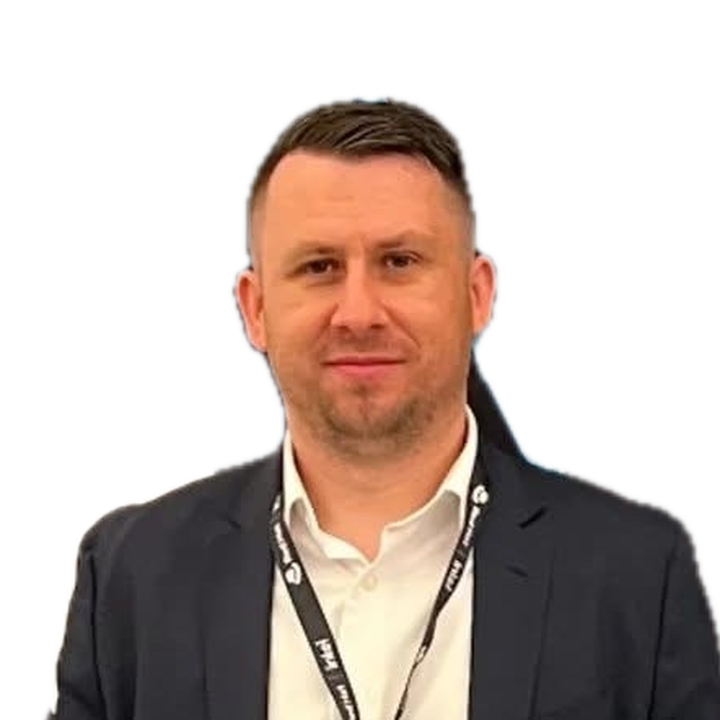
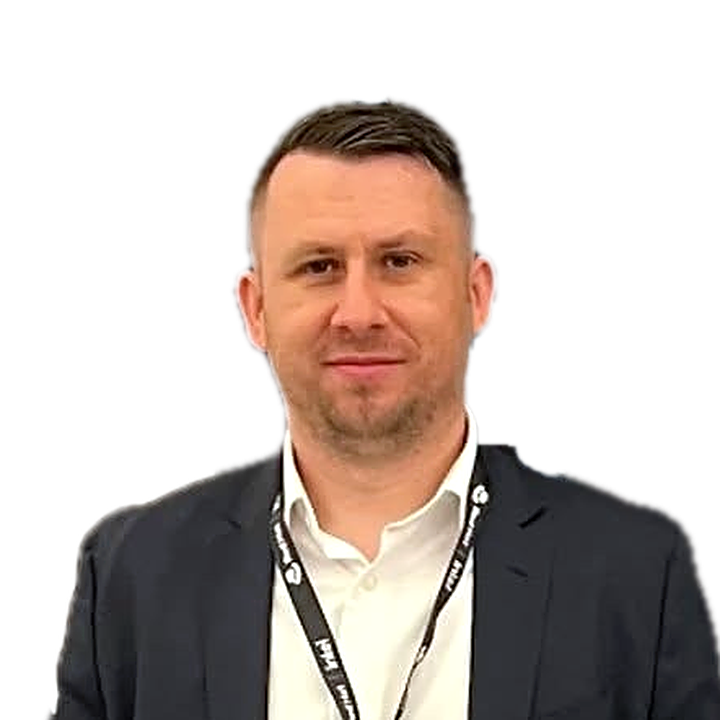
Clean up Vitalie Jicol's portrait and add Cegeka
The first cutout kept a wedge of the banner behind the neck and a blue
fringe from its stripe; both are removed, the edge is feathered and
the warm cast toned down. Vitalie's company is Cegeka.

diff --git a/src/data/speakers.ts b/src/data/speakers.ts
@@ -218,7 +218,8 @@ export const SPEAKERS_2026: Speaker[] = [
   {
     name: "Vitalie Jicol",
     role: "DevOps Engineer",
-    company: "_",
+    company: "Cegeka",
+    companyLink: "https://www.cegeka.com/",
     bio: "The Road to Your First Job Starts with a Well-Crafted CV",
     image: "/speakers/portraits/Vitalie Jicol.png",
     linkedinUrl: "https://www.linkedin.com/in/vitalie-jicol/"

diff --git a/src/data/schedule.ts b/src/data/schedule.ts
@@ -294,7 +294,7 @@ export const SCHEDULE_2026: ScheduleSlot[] = [
     events: [
       {
         title: 'The Road to Your First Job Starts with a Well-Crafted CV',
-        speaker: 'Vitalie Jicol (DevOps Engineer)',
+        speaker: 'Vitalie Jicol (DevOps Engineer at Cegeka)',
         type: 'talk',
         track: 'presentations',
         duration: '30 min'
